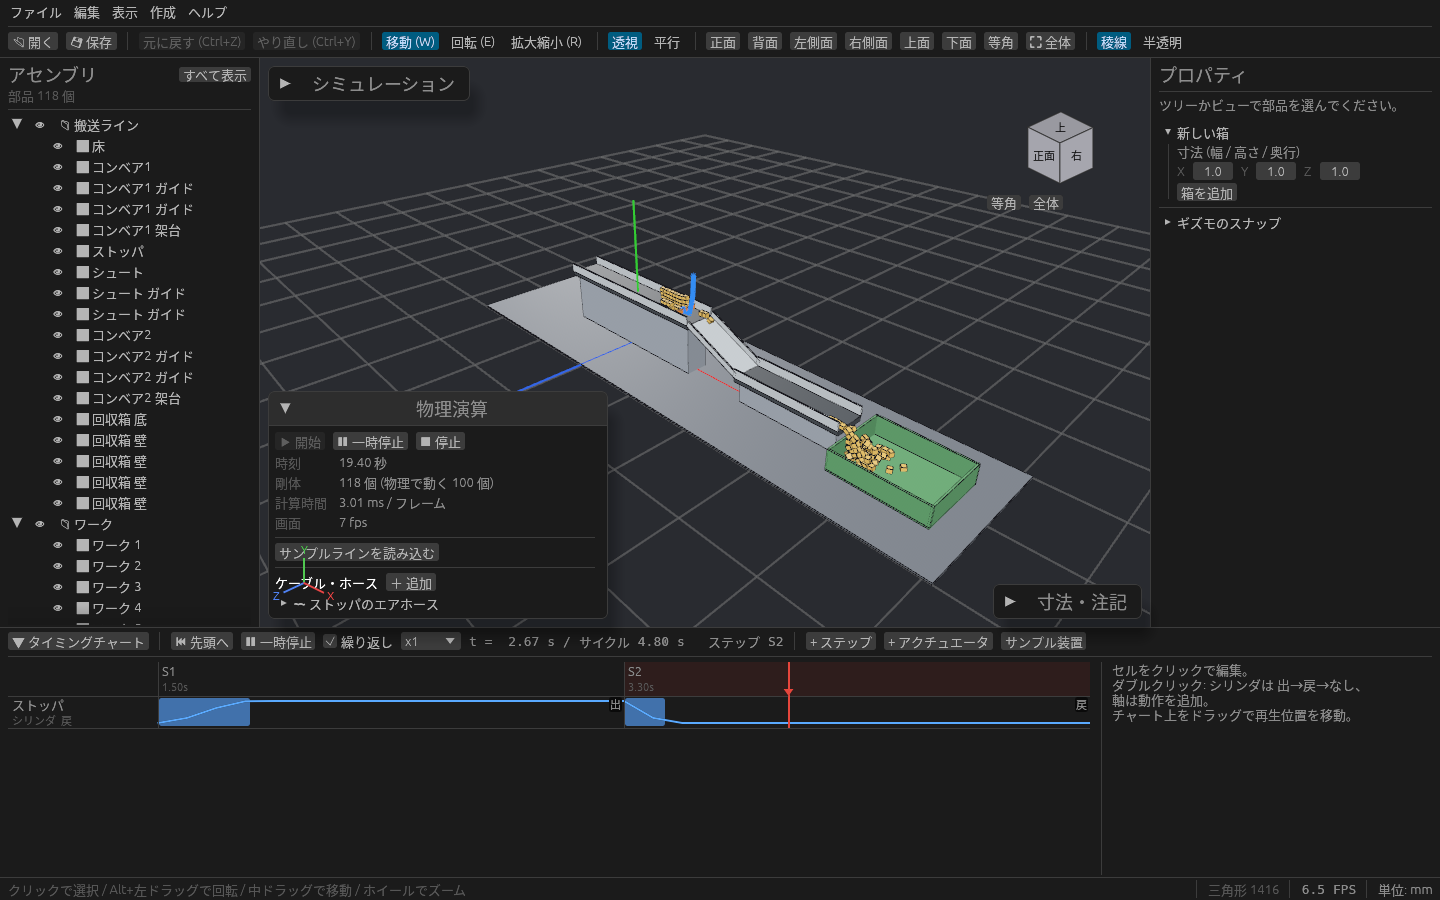
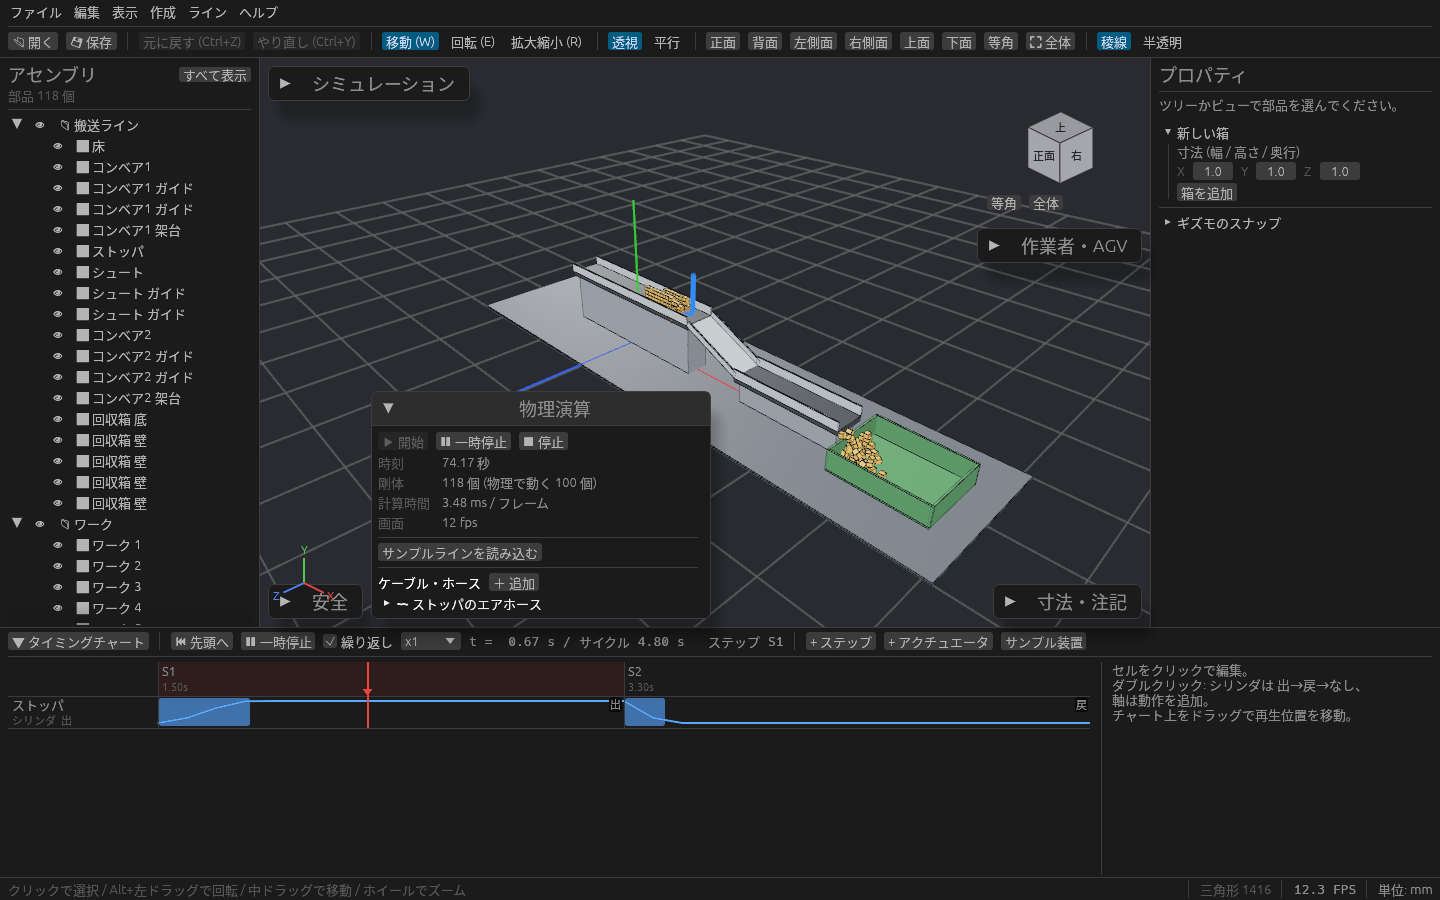
物理演算パネルを安全パネルの右に並べ、スクリーンショットを撮り直す
Claude-Session: https://claude.ai/code/session_01EqFxG3LEqnmXyRSiKMR6Gw

diff --git a/src/physics/panel.rs b/src/physics/panel.rs
@@ -24,7 +24,8 @@ pub fn physics_panel(
     let ctx = contexts.ctx_mut()?;
     // 3D ビューの左下、「安全」パネルの右に並べる (開いて幅が変わっても重ならないよう、前のフレームの幅を使う)
     let corner = viewport.rect.map_or(egui::pos2(8.0, 600.0), |r| {
-        let safety = ctx.memory(|m| m.area_rect(egui::Id::new("安全")));
+        // egui の Window は題名を Option に包んだまま Id にする
+        let safety = ctx.memory(|m| m.area_rect(egui::Id::new(Some("安全"))));
         let left = safety.map_or(r.min.x + 8.0, |s| s.max.x + 8.0);
         egui::pos2(left, r.max.y - 8.0)
     });
